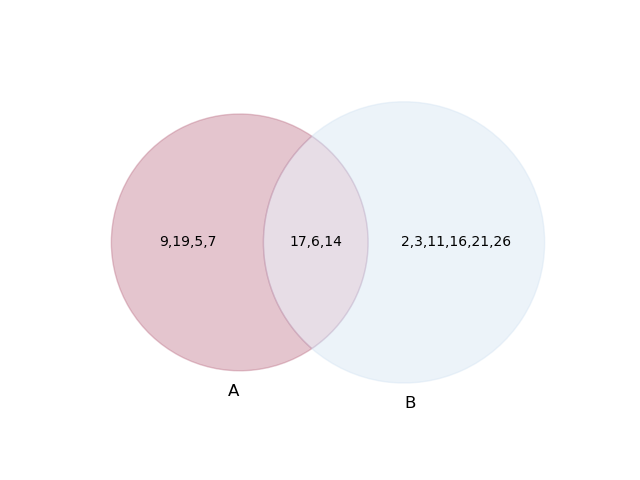
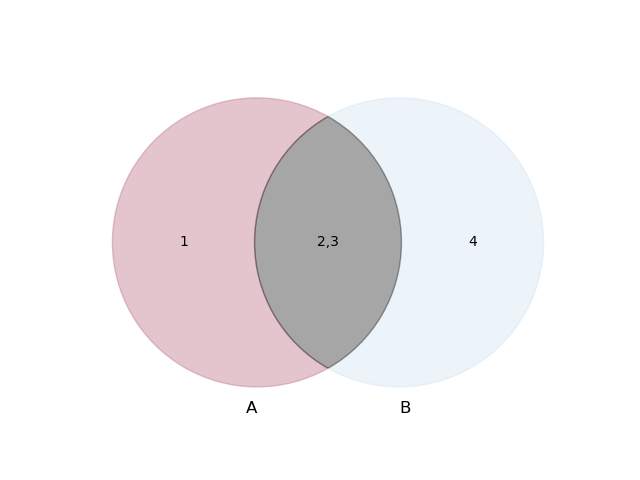
updated documentations

diff --git a/templates/index.html b/templates/index.html
@@ -44,18 +44,14 @@
     <h2>API Methods
     </h2>
 
-    <h3>Set Theories
-    </h3>
 
-    <h3>Get random quizz
-    </h3>
 
-    <p>By this call you can get as many questions as you requested for set theories randomly.
-    </p>
-
-    <p style="background-color: rgb(226, 224, 224); padding:10px; border-radius: 3px;"><b style="color: rgb(238, 38, 38); ">GET</b> /random/int:num</int:num></p>
 
     <p><b>Response</b></p>
+
+        <p>
+            Following is a template of output in JSON format:
+        </p>
     <div style="background-color:rgb(231, 231, 231); font-size: small; padding:15px ;">
         {<br>
             &nbsp;"questions": [<br>
@@ -68,6 +64,7 @@
                 &nbsp;&nbsp;&nbsp;&nbsp;"messageForIncorrectAnswer": "INCORRECT ANSWER",<br>
                 &nbsp;&nbsp;&nbsp;&nbsp;"point": "10",<br>
                 &nbsp;&nbsp;&nbsp;&nbsp;"question": String,<br>
+                    "questionID": String,<br>
                 &nbsp;&nbsp;&nbsp;&nbsp;"questionType": "text"<br>
                 &nbsp;&nbsp;}<br>
                 &nbsp;],<br>
@@ -76,15 +73,37 @@
             }<br>
     </div>
 
+        <h3>Optional and Required Parameters
+    </h3>
+        <p>There are optional and mandatory parameters for the API as follow:</p>
+        <h3>topic id : required</h3>
+        <p style="background-color: rgb(226, 224, 224); padding:10px; border-radius: 3px;"><b style="color: rgb(238, 38, 38); ">example: GET</b> /<b>set-union</b></p>
+
+
+        <h3>number of questions : optional (required when using parameters in set theory), default = 1</h3>
+        <p style="background-color: rgb(226, 224, 224); padding:10px; border-radius: 3px;"><b style="color: rgb(238, 38, 38); ">example: GET</b> /set-union/<b>4</b></p>
+
+
+        <h3>parameters (for set theory): optional, default=11</h3>
+        <p style="background-color: rgb(226, 224, 224); padding:10px; border-radius: 3px;"><b style="color: rgb(238, 38, 38); ">example: GET</b> /set-union/5/<b>11</b></p>
+
+
+
 
     <h3>Questions from topics
     </h3>
 
-    <p>By calling this you need to first define the topic, then number of questions you want and finally
+
+
+
+        <h3>Set Theories
+    </h3>
+
+            <p>By calling this you need to first define the topic, then number of questions you want and finally
         type of items in each sets. as an example to call 5 questions from union of sets that both sets are containing integers:
     </p>
 
-    <p style="background-color: rgb(226, 224, 224); padding:10px; border-radius: 3px;"><b style="color: rgb(238, 38, 38); ">GET</b> /union/5/11</int:num></p>
+    <p style="background-color: rgb(226, 224, 224); padding:10px; border-radius: 3px;"><b style="color: rgb(238, 38, 38); ">GET</b> /set-union/5/11</int:num></p>
 
     <p>Here is the list of all available topics:
     </p>
@@ -102,44 +121,51 @@
         .tg .tg-1zn6{background-color:#FFF;color:#24292E;
           text-align:left;vertical-align:middle}
         </style>
-        <table class="tg">
+
+
+ <table class="tg">
         <thead>
           <tr>
-            <th class="tg-bznl"><span style="font-weight:600">param</span></th>
-            <th class="tg-bznl"><span style="font-weight:600">Output</span></th>
+            <th class="tg-0pky"><b>call</b></th>
+            <th class="tg-0pky"><b>Question Topic</b></th>
           </tr>
         </thead>
         <tbody>
           <tr>
-            <td class="tg-1zn6">union</td>
-            <td class="tg-1zn6">two random sets and union of them as answer.</td>
+            <td class="tg-0pky"><b style="color: rgb(238, 38, 38);">GET</b> /set-union </td>
+            <td class="tg-0pky">Random question for union of two sets. <a href="https://mathgen-api.herokuapp.com/set-union">example call</a><br></td>
           </tr>
           <tr>
-            <td class="tg-plyd">intersection</td>
-            <td class="tg-plyd">two random sets and intersection of them as answer.</td>
+            <td class="tg-0pky"><b style="color: rgb(238, 38, 38);">GET</b> /set-intersection</td>
+            <td class="tg-0pky">Random question for intersection of two sets. <a href="https://mathgen-api.herokuapp.com/set-intersection">example call</a></td>
           </tr>
           <tr>
-            <td class="tg-1zn6">difference</td>
-            <td class="tg-1zn6">two random sets and difference of them as answer.</td>
+            <td class="tg-0pky"><b style="color: rgb(238, 38, 38);">GET</b> /set-difference	</td>
+            <td class="tg-0pky">Random question for difference of two sets.<a href="https://mathgen-api.herokuapp.com/set-difference">example call</a></td>
           </tr>
           <tr>
-            <td class="tg-plyd">symmetric_difference</td>
-            <td class="tg-plyd">two random sets and symmetric difference of them as answer.</td>
+            <td class="tg-0pky"><b style="color: rgb(238, 38, 38);">GET</b> /set-symmetric-difference	</td>
+            <td class="tg-0pky">Random question for symmetric difference of two sets. <a href="https://mathgen-api.herokuapp.com/set-symmetric-difference">example call</a></td>
           </tr>
           <tr>
-            <td class="tg-1zn6">cartesian</td>
-            <td class="tg-1zn6">two sets and cartesian product of them as answer.</td>
+            <td class="tg-0pky"><b style="color: rgb(238, 38, 38);">GET</b> /cartesian-product	</td>
+            <td class="tg-0pky">Random question for cartesian product of two sets. <a href="https://mathgen-api.herokuapp.com/function-domain">example call</a></td>
           </tr>
           <tr>
-            <td class="tg-plyd">partition</td>
-            <td class="tg-plyd">one set and all subsets of it as answer.</td>
+            <td class="tg-0pky"><b style="color: rgb(238, 38, 38);">GET</b> /set-partition	</td>
+            <td class="tg-0pky">Random question for partition of a set. <a href="https://mathgen-api.herokuapp.com/set-partition">example call</a></td>
           </tr>
-          <tr>
-            <td class="tg-1zn6">complement</td>
-            <td class="tg-1zn6">one set and complment of it as answer.</td>
+         <tr>
+            <td class="tg-0pky"><b style="color: rgb(238, 38, 38);">GET</b> /set-complement		</td>
+            <td class="tg-0pky">Random question for set complement. <a href="https://mathgen-api.herokuapp.com/set-complement">example call</a></td>
+          </tr>
+         <tr>
+            <td class="tg-0pky"><b style="color: rgb(238, 38, 38);">GET</b> /venn-diagram		</td>
+            <td class="tg-0pky">Random question for Venn diagram. <a href="https://mathgen-api.herokuapp.com/venn-diagram">example call</a></td>
           </tr>
         </tbody>
         </table>
+
 
         <p>The first number defines the elements in
             first set and second number defines elements in second, here is the list of all available elements:</p>
@@ -197,6 +223,15 @@
                 </table>
 
 
+         <h3>Get random quiz for set theory
+    </h3>
+
+    <p>By this call you can get as many questions as you requested for set theories randomly.
+    </p>
+
+    <p style="background-color: rgb(226, 224, 224); padding:10px; border-radius: 3px;"><b style="color: rgb(238, 38, 38); ">GET</b> /random/int:num</int:num></p>
+
+
     <h3>Functions</h3>
 
     <p> You can generate random questions for different topics in function section by following calls. you can define number of output questions
@@ -219,24 +254,28 @@
         </thead>
         <tbody>
           <tr>
-            <td class="tg-0pky"><b style="color: rgb(238, 38, 38);">GET</b> /function/int:num </td>
-            <td class="tg-0pky">Whether it's a function or not if yes what kind of function. <a href="https://mathgen-api.herokuapp.com/function/1">example call</a><br></td>
+            <td class="tg-0pky"><b style="color: rgb(238, 38, 38);">GET</b> /function-definition </td>
+            <td class="tg-0pky">Random question for function definition. <a href="https://mathgen-api.herokuapp.com/function-definition">example call</a><br></td>
           </tr>
           <tr>
-            <td class="tg-0pky"><b style="color: rgb(238, 38, 38);">GET</b> /function/floorceiling/int:num</td>
-            <td class="tg-0pky">Random questions for floor and ceiling function. <a href="https://mathgen-api.herokuapp.com/function/floorceiling/1">example call</a></td>
+            <td class="tg-0pky"><b style="color: rgb(238, 38, 38);">GET</b> /floor-function</td>
+            <td class="tg-0pky">Random question for floor function. <a href="https://mathgen-api.herokuapp.com/floor-function">example call</a></td>
           </tr>
           <tr>
-            <td class="tg-0pky"><b style="color: rgb(238, 38, 38);">GET</b> /function/inverse/int:num</td>
-            <td class="tg-0pky">Random question for inverse of a function. <a href="https://mathgen-api.herokuapp.com/function/inverse/1">example call</a></td>
+            <td class="tg-0pky"><b style="color: rgb(238, 38, 38);">GET</b> /ceiling-function</td>
+            <td class="tg-0pky">Random question for ceiling function. <a href="https://mathgen-api.herokuapp.com/ceiling-function">example call</a></td>
           </tr>
           <tr>
-            <td class="tg-0pky"><b style="color: rgb(238, 38, 38);">GET</b> /function/domain/int:num</td>
-            <td class="tg-0pky">Random question for domain of a function. <a href="https://mathgen-api.herokuapp.com/function/domain/1">example call</a></td>
+            <td class="tg-0pky"><b style="color: rgb(238, 38, 38);">GET</b> /inverse-function</td>
+            <td class="tg-0pky">Random question for inverse of a function. <a href="https://mathgen-api.herokuapp.com/inverse-function">example call</a></td>
           </tr>
           <tr>
-            <td class="tg-0pky"><b style="color: rgb(238, 38, 38);">GET</b> /function/target/int:num</td>
-            <td class="tg-0pky">Random question for target of a function. <a href="https://mathgen-api.herokuapp.com/function/target/1">example call</a></td>
+            <td class="tg-0pky"><b style="color: rgb(238, 38, 38);">GET</b> /function-domain</td>
+            <td class="tg-0pky">Random question for domain of a function. <a href="https://mathgen-api.herokuapp.com/function-domain">example call</a></td>
+          </tr>
+          <tr>
+            <td class="tg-0pky"><b style="color: rgb(238, 38, 38);">GET</b> /function-target</td>
+            <td class="tg-0pky">Random question for target of a function. <a href="https://mathgen-api.herokuapp.com/function-target">example call</a></td>
           </tr>
         </tbody>
         </table>

diff --git a/app.py b/app.py
@@ -292,15 +292,16 @@ def function_target(num):
 
 # ---------- Probabilities ----------
 
-@app.route('/probability/event/<int:num>', methods=['GET'])
-def event_probability(num):
+@app.route('/probability-event', defaults={'num': 1}, methods=['GET'])
+@app.route('/probability-event/<int:num>', methods=['GET'])
+def probability_event(num):
     questions = []
 
     for i in range(num):
         question_list = [functions.event_probability_1(), functions.event_probability_2(),
                          functions.event_probability_3()]
         questions.append(random.choice(question_list))
-    return jsonify(js.json_maker('probability of an event', questions))
+    return jsonify(js.json_maker('probability-event', questions))
 
 
 @app.route('/probability/permutation/<int:num>', methods=['GET'])
@@ -479,6 +480,36 @@ def topics():
         'one to one function': '/function/equation/'
     }}
     return jsonify(topics)
+
+
+@app.errorhandler(404)
+def not_found(e):
+    error_msg = {
+                 "error": "404",
+                 "message": "The requested resource does not exist.",
+                "detail": " Ensure that the URL you are using is correct."
+                 }
+    return jsonify(error_msg), 404
+
+
+@app.errorhandler(500)
+def server_error(e):
+    error_msg = {
+        "error": "500",
+        "message": "A generic error occurred on the server.",
+        "detail": "please try again later."
+    }
+    return jsonify(error_msg), 500
+
+
+@app.errorhandler(405)
+def server_error(e):
+    error_msg = {
+        "error": "405",
+        "message": "Method not allowed.",
+        "detail": "You requested a method that is not allowed by server."
+    }
+    return jsonify(error_msg), 405
 
 
 # ---------- App Run ----------

diff --git a/test.py b/test.py
@@ -1,0 +1,38 @@
+import requests
+
+topics = ['set-union',
+          'set-difference', 'set-symmetric-difference',
+          'cartesian-product', 'set-partition',
+          'set-complement']
+params = ['1', '2', '3', '4', '5', '6', '7']
+
+param = ['11', '12', '13', '14', '15', '16', '17', '21', '22', '23', '24', '25', '26', '27', '31', '32', '33', '34',
+         '35', '36', '37', '41', '42', '43', '44', '45', '46', '47', '51', '52', '53', '54', '55', '56', '57', '61',
+         '62', '63', '64', '65', '66', '67', '71', '72', '73', '74', '75', '76', '77']
+
+param_intersection = ['11', '22', '33', '44', '55', '66', '77']
+# for i in params:
+#     for j in params:
+#         param.append(i+j)
+#
+# print(param)
+status_codes_list = []
+
+
+for p in param:
+    for i in range(20):
+        x = requests.get('http://127.0.0.1:5000/' + 'set-complement' + '/' + str(i) + '/' + p)
+        status_codes_list.append(x.status_code)
+        if x.status_code is not 200:
+            print('Error : ' + str(x.status_code))
+
+
+# for p in param_intersection:
+#     for i in range(20):
+#         x = requests.get('http://127.0.0.1:5000/' + 'set-intersection' + '/' + str(i) + '/' + p)
+#         status_codes_list.append(x.status_code)
+#         if x.status_code is not 200:
+#             print('Error : ' + str(x.status_code))
+
+
+print(str(len(status_codes_list)) + 'Test successful test cases.')

diff --git a/venn_diagram.py b/venn_diagram.py
@@ -39,4 +39,4 @@ def ven2( set1={1,2,3,4,5},  set2={1,2,3,4,5}):
 
     return img
 
-#print (ven2())
+print (ven2({1,2,3},{2,3,4}))
